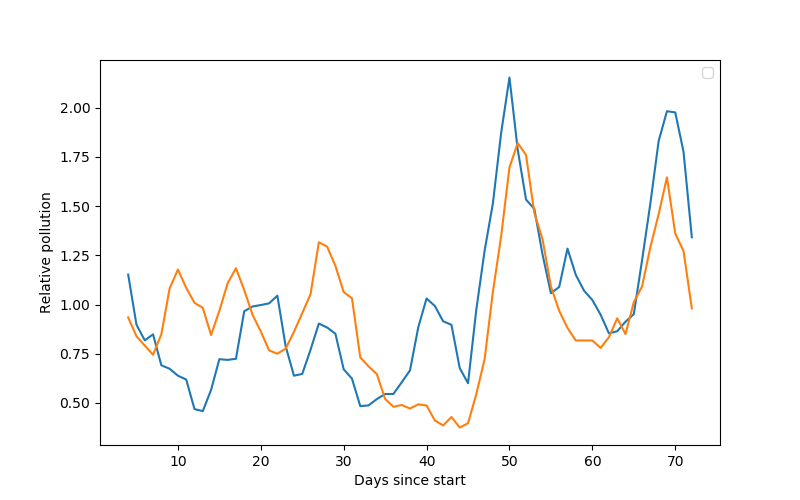
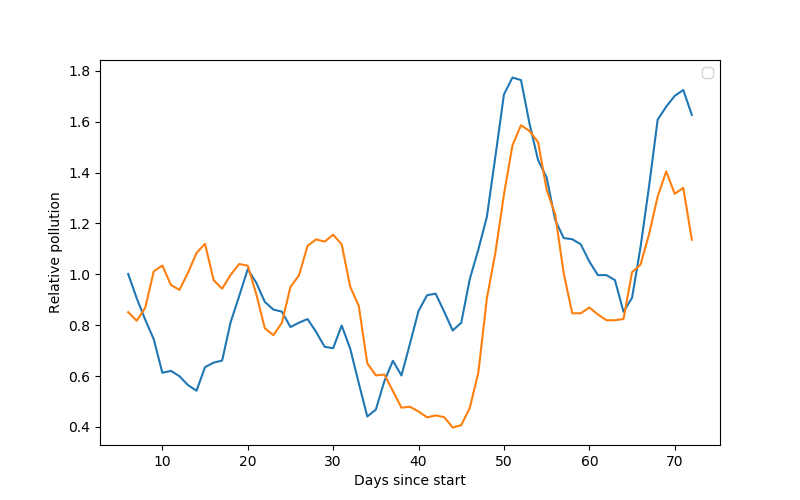
start at 25 cases and 7 day rolling average

diff --git a/dataprep.py b/dataprep.py
@@ -45,7 +45,7 @@ startDates = {}
 for city in cities:
     
     cityData = covidData[covidData.county == city]
-    row = np.searchsorted(cityData.cases, 100)
+    row = np.searchsorted(cityData.cases, 25)
     try:
         startDates[city] = cityData.iloc[row, 0]
     except IndexError as e:
@@ -105,7 +105,7 @@ for city, start in startDates.items():
         fig, ax = plt.subplots(figsize=(8, 5))
 
         plt.plot(combinedData[["Relative NO2 Levels", 
-            "Relative PM2.5 Levels"]].rolling(5).mean())
+            "Relative PM2.5 Levels"]].rolling(7).mean())
         
         ax.legend(loc='best')
         ax.set_xlabel("Days since start")
